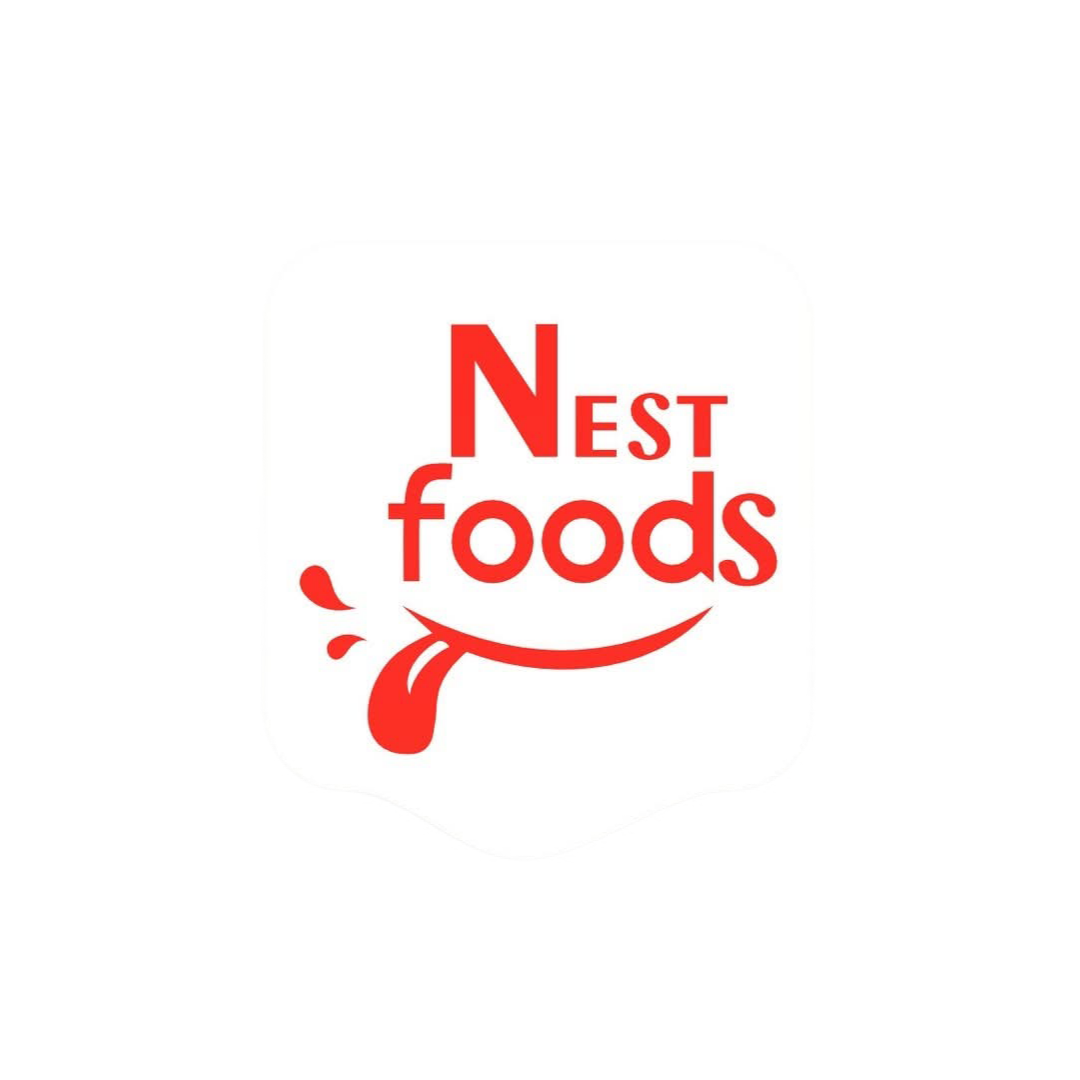
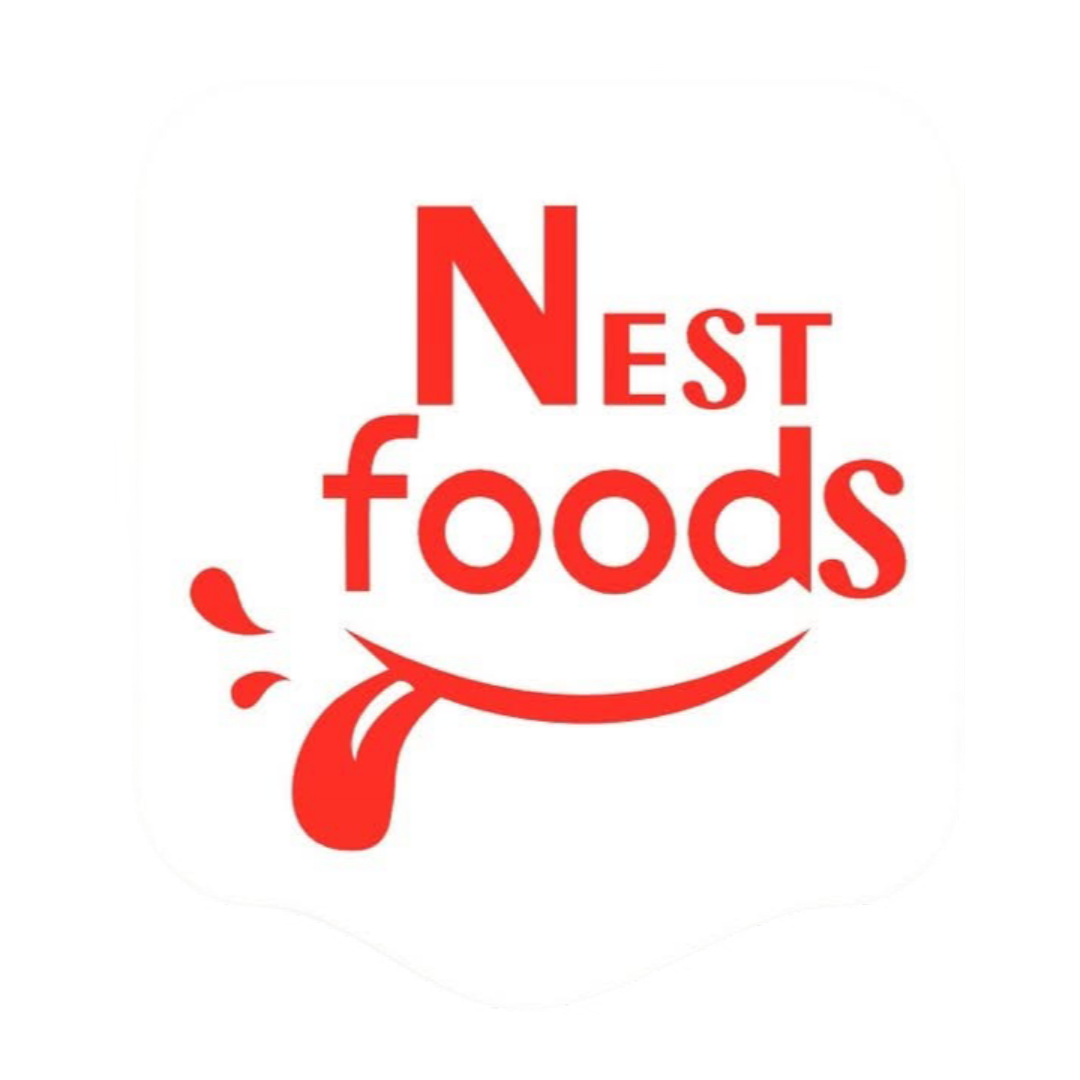
fix(web): update canonical domain and email delivery

Changed region(s): [[0.2444, 0.1833, 0.8556, 0.7944], [0.1528, 0.5194, 0.275, 0.6722]]

diff --git a/apps/web/lib/email/service.ts b/apps/web/lib/email/service.ts
@@ -43,6 +43,17 @@ function splitRecipients(value: string | undefined) {
     .filter(Boolean);
 }
 
+function normalizeRecipients(value: string | string[]) {
+  const recipients = Array.isArray(value) ? value : [value];
+  return recipients.map((entry) => entry.trim()).filter(Boolean);
+}
+
+function resolveEmailDomain(address: string) {
+  const bracketMatch = address.match(/<([^>]+)>/);
+  const emailAddress = (bracketMatch?.[1] ?? address).trim();
+  return emailAddress.includes("@") ? emailAddress.split("@").pop()?.toLowerCase() : undefined;
+}
+
 export function getEmailServiceStatus() {
   const provider = getConfiguredProvider();
   const from = process.env.EMAIL_FROM?.trim() || "De-Nest Bread <noreply@nestfoodsltd.com>";
@@ -55,6 +66,8 @@ export function getEmailServiceStatus() {
     enabled,
     from,
     replyTo,
+    fromDomain: resolveEmailDomain(from),
+    usingDefaultFrom: !process.env.EMAIL_FROM?.trim(),
     resendApiKeyConfigured,
     notificationRecipients: {
       sales: splitRecipients(process.env.SALES_NOTIFICATION_EMAIL || "sales@nestfoodsltd.com"),
@@ -76,6 +89,8 @@ export function getEmailServiceHealth() {
     enabled: status.enabled,
     fromConfigured: Boolean(status.from),
     replyToConfigured: Boolean(status.replyTo),
+    fromDomain: status.fromDomain,
+    usingDefaultFrom: status.usingDefaultFrom,
     resendApiKeyConfigured: status.resendApiKeyConfigured,
     notificationRecipientsConfigured: {
       sales: status.notificationRecipients.sales.length > 0,
@@ -87,6 +102,15 @@ export function getEmailServiceHealth() {
 
 export async function sendTransactionalEmail(input: TransactionalEmailInput): Promise<EmailSendResult> {
   const status = getEmailServiceStatus();
+  const recipients = normalizeRecipients(input.to);
+
+  if (recipients.length === 0) {
+    return {
+      status: "skipped",
+      provider: status.provider,
+      reason: "No email recipients were provided.",
+    };
+  }
 
   if (status.provider === "disabled") {
     return {
@@ -119,10 +143,11 @@ export async function sendTransactionalEmail(input: TransactionalEmailInput): Pr
       headers: {
         authorization: `Bearer ${apiKey}`,
         "content-type": "application/json",
+        "user-agent": "nestfoodsltd-web/1.0",
       },
       body: JSON.stringify({
         from: status.from,
-        to: Array.isArray(input.to) ? input.to : [input.to],
+        to: recipients,
         subject: input.subject,
         text: input.text,
         html: input.html,

diff --git a/apps/web/lib/seo/site.ts b/apps/web/lib/seo/site.ts
@@ -1,4 +1,5 @@
-const PRODUCTION_SITE_URL = "https://nestfoodsltd-web.vercel.app";
+const PRODUCTION_SITE_URL = "https://nestfoodsltd.com";
+const NON_CANONICAL_SITE_HOSTS = new Set(["nestfoodsltd-web.vercel.app", "www.nestfoodsltd.com"]);
 
 function ensureLeadingSlash(path: string) {
   return path.startsWith("/") ? path : `/${path}`;
@@ -11,7 +12,11 @@ export function resolveSiteUrl() {
   }
 
   try {
-    return new URL(configured).origin;
+    const url = new URL(configured);
+    if (NON_CANONICAL_SITE_HOSTS.has(url.host.toLowerCase())) {
+      return PRODUCTION_SITE_URL;
+    }
+    return url.origin;
   } catch {
     return PRODUCTION_SITE_URL;
   }

diff --git a/apps/web/components/brand-logo.tsx b/apps/web/components/brand-logo.tsx
@@ -22,12 +22,12 @@ export function BrandLogo({
       <Image
         src="/brand/logos/logo-primary.png"
         alt="De-Nest Bread logo"
-        width={compact ? 56 : 72}
-        height={compact ? 56 : 72}
+        width={compact ? 64 : 84}
+        height={compact ? 64 : 84}
         priority
         className={cn(
-          "h-14 w-auto object-contain object-center",
-          compact && "h-11",
+          "h-16 w-auto object-contain object-center",
+          compact && "h-12",
         )}
       />
       <span className={cn("flex flex-col", compact && "hidden sm:flex")}>

diff --git a/apps/web/app/layout.tsx b/apps/web/app/layout.tsx
@@ -35,9 +35,9 @@ export const metadata: Metadata = {
   description:
     "Premium bread manufacturing, product information, and company details from Nest Foods Limited.",
   icons: {
-    icon: "/brand/logos/logo-primary.png",
-    shortcut: "/brand/logos/logo-primary.png",
-    apple: "/brand/logos/logo-primary.png",
+    icon: [{ url: "/icon.png", sizes: "any", type: "image/png" }],
+    shortcut: "/icon.png",
+    apple: [{ url: "/apple-icon.png", sizes: "180x180", type: "image/png" }],
   },
 };
 

diff --git a/apps/web/lib/cms/metadata.ts b/apps/web/lib/cms/metadata.ts
@@ -15,7 +15,7 @@ export function cmsPageMetadata(page: CmsPage, options?: CmsPageMetadataOptions)
     title: page.seo.title ?? page.title,
     description: page.seo.description ?? page.description,
     alternates: {
-      canonical: canonicalPath,
+      canonical: absoluteUrl(canonicalPath),
     },
     openGraph: {
       title: page.seo.title ?? page.title,

diff --git a/apps/web/lib/seo/metadata.ts b/apps/web/lib/seo/metadata.ts
@@ -34,7 +34,7 @@ export function buildPageMetadata(input: BuildPageMetadataInput): Metadata {
     title: input.title,
     description: input.description,
     alternates: {
-      canonical: canonicalPath,
+      canonical: absoluteUrl(canonicalPath),
     },
     robots,
     openGraph: {

diff --git a/apps/web/lib/security/admin-surface.ts b/apps/web/lib/security/admin-surface.ts
@@ -3,6 +3,8 @@ import { type NextRequest } from "next/server";
 const DEFAULT_ADMIN_HOSTS = [
   "admin.localhost:3000",
   "admin.nestfoodsltd.com",
+  "nestfoodsltd.com",
+  "www.nestfoodsltd.com",
   "nestfoodsltd-web.vercel.app",
 ];
 
